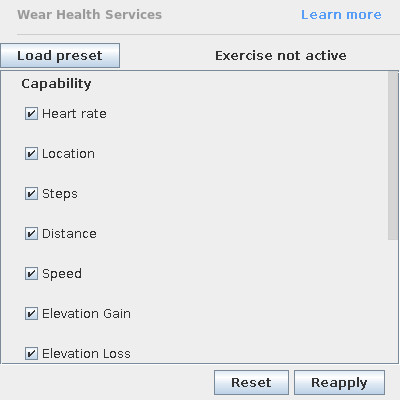
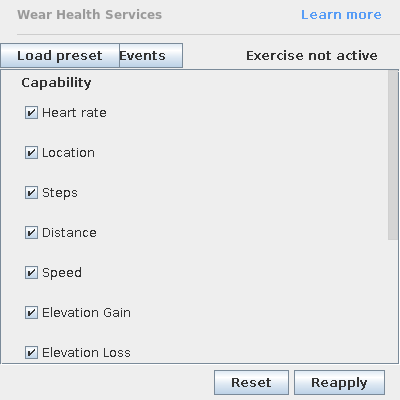
Replace use of CommonDropDownButton with JBPopupMenu and
... DropDownAction.

With this change, the style of popup between the "load preset" choices
and the trigger events will be consistent. Furthermore, this change will
help fix the issue where clicking on an event group would hide the
balloon on windows.

Fixes: 338354365
Test: //tools/adt/idea/wear-whs:intellij.android.wear-whs_tests

diff --git a/wear-whs/testSrc/com/android/tools/idea/wearwhs/view/WearHealthServicesPanelTest.kt b/wear-whs/testSrc/com/android/tools/idea/wearwhs/view/WearHealthServicesPanelTest.kt
@@ -19,12 +19,13 @@ import com.android.mockito.kotlin.whenever
 import com.android.testutils.ImageDiffUtil
 import com.android.testutils.TestUtils
 import com.android.testutils.waitForCondition
-import com.android.tools.adtui.stdui.menu.CommonDropDownButton
+import com.android.tools.adtui.actions.DropDownAction
 import com.android.tools.adtui.swing.FakeUi
 import com.android.tools.adtui.swing.findDescendant
 import com.android.tools.idea.concurrency.AndroidCoroutineScope
 import com.android.tools.idea.concurrency.AndroidDispatchers
 import com.android.tools.idea.testing.AndroidProjectRule
+import com.android.tools.idea.testing.ui.FakeActionPopupMenu
 import com.android.tools.idea.wearwhs.EVENT_TRIGGER_GROUPS
 import com.android.tools.idea.wearwhs.WHS_CAPABILITIES
 import com.android.tools.idea.wearwhs.WearWhsBundle.message
@@ -37,14 +38,18 @@ import com.intellij.ide.BrowserUtil
 import com.intellij.notification.Notification
 import com.intellij.notification.NotificationType
 import com.intellij.notification.NotificationsManager
+import com.intellij.openapi.actionSystem.ActionGroup
+import com.intellij.openapi.actionSystem.ActionManager
+import com.intellij.openapi.application.ApplicationManager
 import com.intellij.openapi.application.runInEdt
 import com.intellij.openapi.util.Disposer
 import com.intellij.testFramework.EdtRule
 import com.intellij.testFramework.RunsInEdt
+import com.intellij.testFramework.TestActionEvent.createTestEvent
+import com.intellij.testFramework.replaceService
 import com.intellij.ui.components.ActionLink
 import icons.StudioIcons
 import java.awt.Dimension
-import java.awt.event.ActionEvent
 import java.awt.event.KeyEvent
 import java.nio.file.Path
 import java.util.concurrent.TimeUnit
@@ -61,11 +66,15 @@ import kotlinx.coroutines.flow.take
 import kotlinx.coroutines.runBlocking
 import kotlinx.coroutines.withTimeout
 import org.junit.Assert.assertEquals
+import org.junit.Assert.assertNotNull
 import org.junit.Before
 import org.junit.Rule
 import org.junit.Test
 import org.mockito.Mockito.anyString
+import org.mockito.Mockito.doAnswer
 import org.mockito.Mockito.mockStatic
+import org.mockito.kotlin.any
+import org.mockito.kotlin.whenever
 
 @RunsInEdt
 class WearHealthServicesPanelTest {
@@ -91,6 +100,7 @@ class WearHealthServicesPanelTest {
   private lateinit var deviceManager: FakeDeviceManager
   private lateinit var stateManager: WearHealthServicesStateManagerImpl
   private lateinit var whsPanel: WearHealthServicesPanel
+  private lateinit var fakePopup: FakeActionPopupMenu
 
   @Before
   fun setUp() {
@@ -110,6 +120,19 @@ class WearHealthServicesPanelTest {
         .also { Disposer.register(projectRule.testRootDisposable, it) }
         .also { it.serialNumber = "some serial number" }
     whsPanel = createWearHealthServicesPanel(stateManager, testUiScope, testWorkerScope)
+
+    ApplicationManager.getApplication()
+      .replaceService(
+        ActionManager::class.java,
+        org.mockito.kotlin.mock(),
+        projectRule.testRootDisposable,
+      )
+    doAnswer { invocation ->
+        fakePopup = FakeActionPopupMenu(invocation.getArgument(1))
+        fakePopup
+      }
+      .whenever(ActionManager.getInstance())
+      .createActionPopupMenu(anyString(), any<ActionGroup>())
   }
 
   @Test
@@ -250,17 +273,24 @@ class WearHealthServicesPanelTest {
   }
 
   @Test
-  fun `test panel displays the dropdown for event triggers`() = runBlocking {
+  fun `test panel displays a popup for event triggers`(): Unit = runBlocking {
     val fakeUi = FakeUi(whsPanel.component)
-    val dropDownButton = fakeUi.waitForDescendant<CommonDropDownButton>()
-    assertThat(dropDownButton).isNotNull()
-    assertThat(dropDownButton.action.childrenActions).hasSize(EVENT_TRIGGER_GROUPS.size)
-    assertThat(dropDownButton.action.childrenActions[0].childrenActions)
-      .hasSize(EVENT_TRIGGER_GROUPS[0].eventTriggers.size)
-    assertThat(dropDownButton.action.childrenActions[1].childrenActions)
-      .hasSize(EVENT_TRIGGER_GROUPS[1].eventTriggers.size)
-    assertThat(dropDownButton.action.childrenActions[2].childrenActions)
-      .hasSize(EVENT_TRIGGER_GROUPS[2].eventTriggers.size)
+    val eventsButton = fakeUi.triggerEventsButton()
+    assertThat(eventsButton).isNotNull()
+
+    eventsButton.doClick()
+
+    val eventTriggerGroups = fakePopup.getActions().mapNotNull { it as? DropDownAction }
+    assertThat(eventTriggerGroups).hasSize(EVENT_TRIGGER_GROUPS.size)
+
+    for (i in EVENT_TRIGGER_GROUPS.indices) {
+      assertThat(eventTriggerGroups[i].templatePresentation.text)
+        .isEqualTo(EVENT_TRIGGER_GROUPS[i].eventGroupLabel)
+      val eventTriggerActions = eventTriggerGroups[i].childActionsOrStubs
+
+      assertThat(eventTriggerActions.map { it.templatePresentation.text })
+        .isEqualTo(EVENT_TRIGGER_GROUPS[i].eventTriggers.map { it.eventLabel })
+    }
   }
 
   @Test
@@ -542,10 +572,7 @@ class WearHealthServicesPanelTest {
     runBlocking {
       val fakeUi = FakeUi(whsPanel.component, createFakeWindow = true)
 
-      val dropDownButton = fakeUi.waitForDescendant<CommonDropDownButton>()
-      val triggerEventAction = dropDownButton.action.childrenActions.first().childrenActions.first()
-      triggerEventAction.actionPerformed(ActionEvent("source", 1, ""))
-      whsPanel.onUserTriggerEventFlow.take(1).collectLatest {}
+      fakeUi.clickOnTriggerEvent()
 
       fakeUi.waitForDescendant<JLabel> { it.text == message("wear.whs.event.trigger.success") }
     }
@@ -557,10 +584,7 @@ class WearHealthServicesPanelTest {
 
       deviceManager.failState = true
 
-      val dropDownButton = fakeUi.waitForDescendant<CommonDropDownButton>()
-      val triggerEventAction = dropDownButton.action.childrenActions.first().childrenActions.first()
-      triggerEventAction.actionPerformed(ActionEvent("source", 1, ""))
-      whsPanel.onUserTriggerEventFlow.take(1).collectLatest {}
+      fakeUi.clickOnTriggerEvent()
 
       fakeUi.waitForDescendant<JLabel> { it.text == message("wear.whs.event.trigger.failure") }
     }
@@ -570,10 +594,7 @@ class WearHealthServicesPanelTest {
     runBlocking {
       val fakeUi = FakeUi(whsPanel.component, createFakeWindow = false)
 
-      val dropDownButton = fakeUi.waitForDescendant<CommonDropDownButton>()
-      val triggerEventAction = dropDownButton.action.childrenActions.first().childrenActions.first()
-      triggerEventAction.actionPerformed(ActionEvent("source", 1, ""))
-      whsPanel.onUserTriggerEventFlow.take(1).collectLatest {}
+      fakeUi.clickOnTriggerEvent()
 
       waitForCondition(2, TimeUnit.SECONDS) {
         notifications.any {
@@ -590,10 +611,7 @@ class WearHealthServicesPanelTest {
 
       deviceManager.failState = true
 
-      val dropDownButton = fakeUi.waitForDescendant<CommonDropDownButton>()
-      val triggerEventAction = dropDownButton.action.childrenActions.first().childrenActions.first()
-      triggerEventAction.actionPerformed(ActionEvent("source", 1, ""))
-      whsPanel.onUserTriggerEventFlow.take(1).collectLatest {}
+      fakeUi.clickOnTriggerEvent()
 
       waitForCondition(2, TimeUnit.SECONDS) {
         notifications.any {
@@ -692,9 +710,7 @@ class WearHealthServicesPanelTest {
     val fakeUi = FakeUi(whsPanel.component)
     val triggerEventFlow = whsPanel.onUserTriggerEventFlow
 
-    val dropDownButton = fakeUi.waitForDescendant<CommonDropDownButton>()
-    val triggerEventAction = dropDownButton.action.childrenActions.first().childrenActions.first()
-    triggerEventAction.actionPerformed(ActionEvent("source", 1, ""))
+    fakeUi.clickOnTriggerEvent(consumeTriggerEventFlow = false)
 
     withTimeout(1.seconds) { triggerEventFlow.take(1).collect {} }
   }
@@ -865,5 +881,24 @@ class WearHealthServicesPanelTest {
       root.findDescendant(predicate) != null
     }
     return root.findDescendant(predicate)!!
+  }
+
+  private fun FakeUi.triggerEventsButton() =
+    waitForDescendant<JButton> { it.text == message("wear.whs.panel.trigger.events") }
+
+  private suspend fun FakeUi.clickOnTriggerEvent(consumeTriggerEventFlow: Boolean = true) {
+    val triggerEventsButton = triggerEventsButton()
+    triggerEventsButton.doClick()
+
+    val triggerEventGroupAction = fakePopup.getActions().firstOrNull() as? DropDownAction
+    assertNotNull("An event trigger group action was expected", triggerEventGroupAction)
+
+    val triggerEventAction = triggerEventGroupAction!!.childActionsOrStubs.firstOrNull()
+    assertNotNull("An event trigger action was expected", triggerEventAction)
+
+    triggerEventAction!!.actionPerformed(createTestEvent())
+    if (consumeTriggerEventFlow) {
+      whsPanel.onUserTriggerEventFlow.take(1).collectLatest {}
+    }
   }
 }

diff --git a/wear-whs/src/com/android/tools/idea/wearwhs/view/WearHealthServicesPanel.kt b/wear-whs/src/com/android/tools/idea/wearwhs/view/WearHealthServicesPanel.kt
@@ -15,9 +15,9 @@
  */
 package com.android.tools.idea.wearwhs.view
 
-import com.android.tools.adtui.model.stdui.CommonAction
-import com.android.tools.adtui.stdui.menu.CommonDropDownButton
+import com.android.tools.adtui.actions.DropDownAction
 import com.android.tools.idea.wearwhs.EVENT_TRIGGER_GROUPS
+import com.android.tools.idea.wearwhs.EventTrigger
 import com.android.tools.idea.wearwhs.WearWhsBundle.message
 import com.android.tools.idea.wearwhs.WhsCapability
 import com.android.tools.idea.wearwhs.WhsDataValue
@@ -349,44 +349,6 @@ private fun createWearHealthServicesPanelHeader(
         else message("wear.whs.panel.load.preset.tooltip")
     }
     .launchIn(uiScope)
-  val eventTriggersDropDownButton =
-    object :
-        CommonDropDownButton(
-          CommonAction("", AllIcons.Actions.More).apply {
-            addChildrenActions(
-              EVENT_TRIGGER_GROUPS.map { eventTriggerGroup ->
-                CommonAction(eventTriggerGroup.eventGroupLabel, null).apply {
-                  addChildrenActions(
-                    eventTriggerGroup.eventTriggers.map { eventTrigger ->
-                      CommonAction(eventTrigger.eventLabel, null) {
-                        workerScope.launch {
-                          onTriggerEventChannel.send(Unit)
-                          stateManager
-                            .triggerEvent(eventTrigger)
-                            .onSuccess {
-                              notifyUser(
-                                message("wear.whs.event.trigger.success"),
-                                MessageType.INFO,
-                              )
-                            }
-                            .onFailure {
-                              notifyUser(
-                                message("wear.whs.event.trigger.failure"),
-                                MessageType.ERROR,
-                              )
-                            }
-                        }
-                      }
-                    }
-                  )
-                }
-              }
-            )
-          }
-        ) {
-        override fun isFocusable(): Boolean = true
-      }
-      .apply { toolTipText = message("wear.whs.panel.trigger.events") }
 
   val statusLabel =
     JLabel(message("wear.whs.panel.exercise.inactive")).apply {
@@ -416,7 +378,12 @@ private fun createWearHealthServicesPanelHeader(
   twoColumnsRow(
     {
       cell(loadCapabilityPresetButton)
-      cell(eventTriggersDropDownButton)
+      cell(createTriggerEventGroupsButton(
+        workerScope = workerScope,
+        onTriggerEventChannel = onTriggerEventChannel,
+        stateManager = stateManager,
+        notifyUser = notifyUser,
+      ))
     },
     { cell(statusLabel) },
   )
@@ -593,3 +560,62 @@ internal fun createWearHealthServicesPanel(
     onUserTriggerEventFlow = onTriggerEventChannel.receiveAsFlow(),
   )
 }
+
+private fun createTriggerEventGroupsButton(
+  workerScope: CoroutineScope,
+  onTriggerEventChannel: Channel<Unit>,
+  stateManager: WearHealthServicesStateManager,
+  notifyUser: (String, MessageType) -> Unit,
+): JButton {
+  val eventTriggerGroupActions =
+    EVENT_TRIGGER_GROUPS.map { eventTriggerGroup ->
+      val eventTriggerActions =
+        eventTriggerGroup.eventTriggers.map { eventTrigger ->
+          createEventTriggerAction(
+            eventTrigger = eventTrigger,
+            workerScope = workerScope,
+            onTriggerEventChannel = onTriggerEventChannel,
+            stateManager = stateManager,
+            notifyUser = notifyUser,
+          )
+        }
+      DropDownAction(eventTriggerGroup.eventGroupLabel, null, null).apply {
+          addAll(eventTriggerActions)
+      }
+    }
+  val eventTriggerGroups =
+    DropDownAction(null, null, null).apply {
+        addAll(eventTriggerGroupActions)
+    }
+
+  return JButton(message("wear.whs.panel.trigger.events")).apply {
+    toolTipText = message("wear.whs.panel.trigger.events.tooltip")
+    isFocusable = true
+    addActionListener {
+      val popup =
+        ActionManager.getInstance().createActionPopupMenu(ActionPlaces.POPUP, eventTriggerGroups)
+      JBPopupMenu.showBelow(this, popup.component)
+    }
+  }
+}
+
+private fun createEventTriggerAction(
+  eventTrigger: EventTrigger,
+  workerScope: CoroutineScope,
+  onTriggerEventChannel: Channel<Unit>,
+  stateManager: WearHealthServicesStateManager,
+  notifyUser: (String, MessageType) -> Unit,
+) =
+  object : AnAction(eventTrigger.eventLabel, null, null) {
+    override fun getActionUpdateThread() = ActionUpdateThread.BGT
+
+    override fun actionPerformed(e: AnActionEvent) {
+      workerScope.launch {
+        onTriggerEventChannel.send(Unit)
+        stateManager
+          .triggerEvent(eventTrigger)
+          .onSuccess { notifyUser(message("wear.whs.event.trigger.success"), MessageType.INFO) }
+          .onFailure { notifyUser(message("wear.whs.event.trigger.failure"), MessageType.ERROR) }
+      }
+    }
+  }
